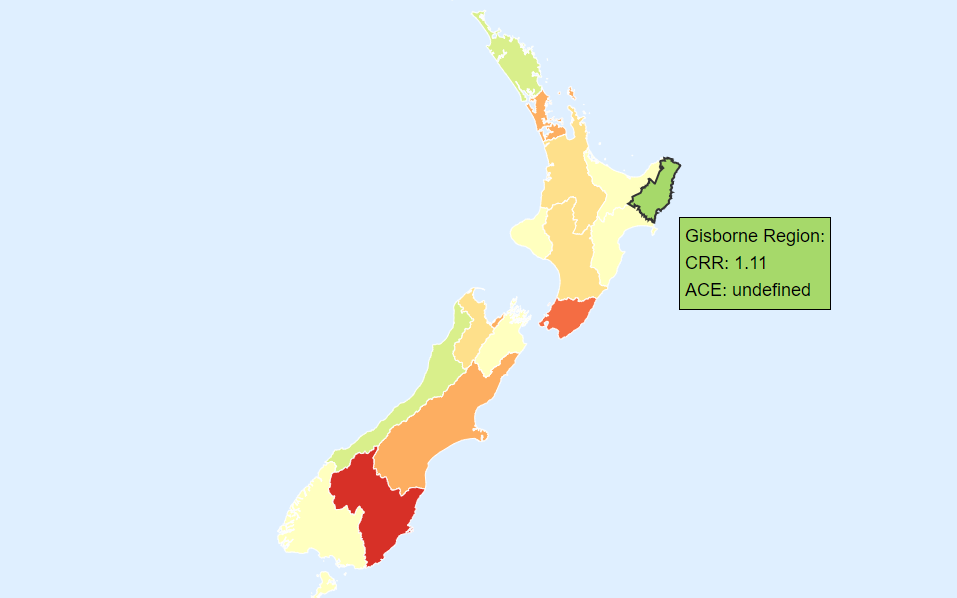
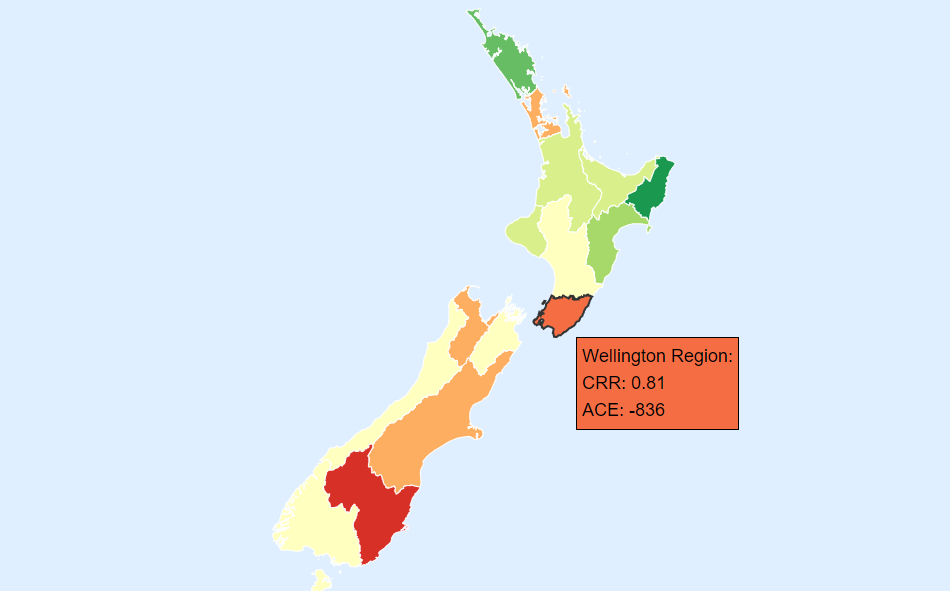
added 2006 and 2018 to nz

diff --git a/_pages/fertility-appendix.html b/_pages/fertility-appendix.html
@@ -42,8 +42,8 @@ USA:
 
 <hr>
 Canada:
-<p>The geographies were chosen as the relevant Census Metropolitan Areas. The population data comes from the 2011 National Household Survey data tables: Visible Minority (15), Generation Status (4), Age Groups (10) and Sex (3) for the Population in Private Households of Canada, Provinces, Territories, Census Metropolitan Areas and Census Agglomerations.</p>
-<p><a href=https://www.statcan.gc.ca/>statcan.gc.ca</a> -> English -> Census Program -> Census Datasets -> 2011 NHS -> Variable: Visible minority (15)</p>
+<p>The geographies were chosen as the relevant Census Metropolitan Areas. The population data is derived from a synthesis of the Visible Minority tables and the Aboriginal Identity tables.</p>
+<p><a href=https://www.statcan.gc.ca/>statcan.gc.ca</a> -> English -> Census Program -> Census Datasets -> (2001 Census/2006 Census/2011 NHS/2016 Census Part B) -> Variable: (Visible minority/Aboriginal Identity)</p>
 
 <hr>
 <p>Ireland and the UK:
@@ -57,13 +57,8 @@ The geographies were chosen as the European Union NUTS regions.</p>
 
 <hr>
 New Zealand:
-<p>The geographies were chosen as the Regions of New Zealand that contained the relevant city. The population data comes from <a href=http://nzdotstat.stats.govt.nz/wbos/Index.aspx>nzdotstat.stats.govt.nz</a></p>
-<p>The white total was got from the sum of two entities:</p>
-<ol>
-<li>The "European only" group from the dataset: Ethnic group (single & combination) by age and sex, 2001, 2006, and 2013 Censuses</li>
-<li>The number of "New Zealander" responses from the dataset: Ethnic group (total responses) by age group and sex, 2001, 2006, and 2013 Censuses</li></ol>
-
-<p>Estimates for white and nonwhite populations in 2011 were got from linear interpolation between 2006 and 2013.</p>
+<p>The geographies were chosen as the Regional Council Areas of New Zealand. The population data comes from <a href=http://nzdotstat.stats.govt.nz/>nzdotstat.stats.govt.nz</a> -> 2018 Census -> Ethnicity, culture, and identity
+-> Ethnic group (detailed total response - level 4), by age group and sex, 2006, 2013, and 2018 Censuses</p>
 
 <hr>
 Australia:

diff --git a/_js/fertility-choropleth-nz.js b/_js/fertility-choropleth-nz.js
@@ -1,9 +1,9 @@
 (function() {
 
-var REPL = {};
-var races = ['WHITE', 'BLACK', 'YELLOW', 'RED', 'BROWN'];
-var year = 2013; // I guess?
-REPL[year] = {};
+var CRR = {};
+var ACE = {};
+var races = ['E', 'W', 'B', 'R', 'Y', 'N', 'Z'];
+var years = [2006, 2013, 2018];
 var mydir = "/_data/fert-nz/";
 
 var data;
@@ -41,21 +41,25 @@ d3.queue()
       q.properties.Name = q.properties.REGION;
       q.properties.Code = q.properties.REGION;
     });
-    NATGeometries = groupGeometries(REGGeometries, q => 'Total, Regional Council Areas', q => 'New Zealand');
+    NATGeometries = groupGeometries(REGGeometries, q => 'Total - Regional Council Areas', q => 'New Zealand');
 
-    function getRates(race) {
-      var r = compressedRaces[race]
-      REPL[year][r] = {};
-      myqueue.defer(d3.tsv, mydir + 'REPL/' + race + '.tsv', function(d) {
-        REPL[year][r][d.id] = +d.rate;
+    function getData(year) {
+      CRR[year] = {};
+      ACE[year] = {};
+      races.forEach(function(r) {
+        CRR[year][r] = {};
+        ACE[year][r] = {};
+      });
+      myqueue.defer(d3.tsv, mydir + 'DATA/' + year + '.tsv', function(d) {
+        races.forEach(function(r) {
+          CRR[year][r][d.GEO] = +d[r+'_CRR'];
+          ACE[year][r][d.GEO] = parseInt(d[r+'_ACE']);
+        });
       });
     }
     var myqueue = d3.queue();
-    getRates(races[0]);
+    years.forEach(year => getData(year));
     myqueue.await(draw_svg);
-    var myqueue = d3.queue();
-    races.slice(1).forEach(race => getRates(race));
-
   } ) ;
 
 function draw_svg(error) {
@@ -93,12 +97,10 @@ function draw_svg(error) {
     selection.attr("class", "division")
   });
 
-  choro.setInputs(REPL, SelectionNames);
+  choro.setInputs(CRR, SelectionNames, ACE);
 
   var widget = new fertWidget('#widget-nz', choro);
-  widget.currentRace = "WHITE"; // temporary becasue the default is "EVERYONE" which hasn't been defined for New Zealand yet
-
-  var raceButtonData = races;
+  var raceButtonData = races.map(r => expandedRaces[r]);
   widget.populateButtons(regionButtonData, raceButtonData);
   widget.displayRegion("Region");
 

diff --git a/_js/fertility-choropleth.js b/_js/fertility-choropleth.js
@@ -185,7 +185,8 @@ fertWidget.prototype = {
       .min(d3.min(years))
       .max(d3.max(years))
       .marks(years)
-      .width(240)
+      .width(300)
+      //.height(0)
       .tickFormat(d3.format("")) // Bostock, plox to be removing default commas
       .tickValues(years)
       .default(d3.max(years))
@@ -196,11 +197,11 @@ fertWidget.prototype = {
       .append('svg')
       .style('background', 'none')
       .attr('overflow', 'visible')
-      //.attr('width', 300)
-      //.attr('height', 100)
-      .attr('viewBox', '0 0 300 80')
+      .attr('height', '90')
+      .attr('width', '100%')
+      .attr('viewBox', '0 0 300 70')
       .append('g')
-      .attr('transform', 'translate(30,30)');
+      .attr('transform', 'translate(0,25)');
 
     gTime.call(sliderTime);
 

diff --git a/_js/fertility-choropleth-canada.js b/_js/fertility-choropleth-canada.js
@@ -36,8 +36,8 @@ d3.queue()
     //var myqueue = d3.queue();
     //races.slice(1).forEach(race => getRates(race));
     var myqueue = d3.queue();
-    years.forEach(year => getData(year))
-    myqueue.await(draw_svg)
+    years.forEach(year => getData(year));
+    myqueue.await(draw_svg);
   } );
 
 function draw_svg(error) {
@@ -118,7 +118,7 @@ function draw_svg(error) {
     'Provinces': ProvinceLayer,
     'Nation': NationLayer
   };
-  var raceButtonData = races.map(r => expandedRaces[r])
+  var raceButtonData = races.map(r => expandedRaces[r]);
   widget.populateButtons(regionButtonData, raceButtonData);
 
   widget.displayRegion("Provinces");
